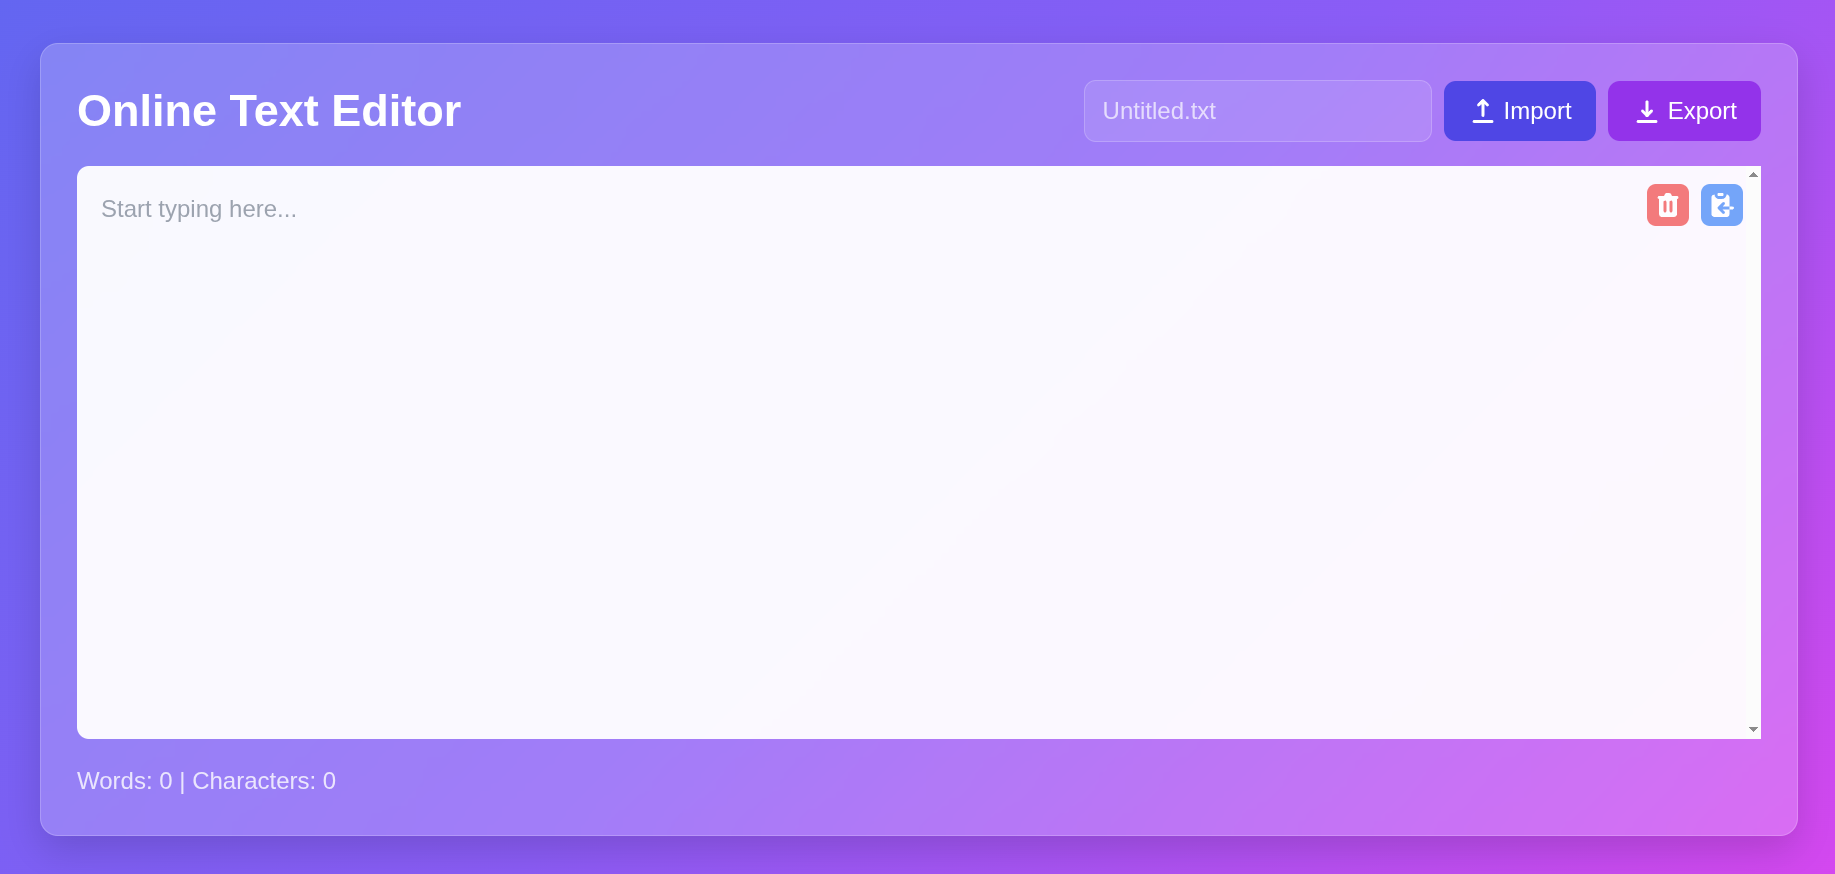
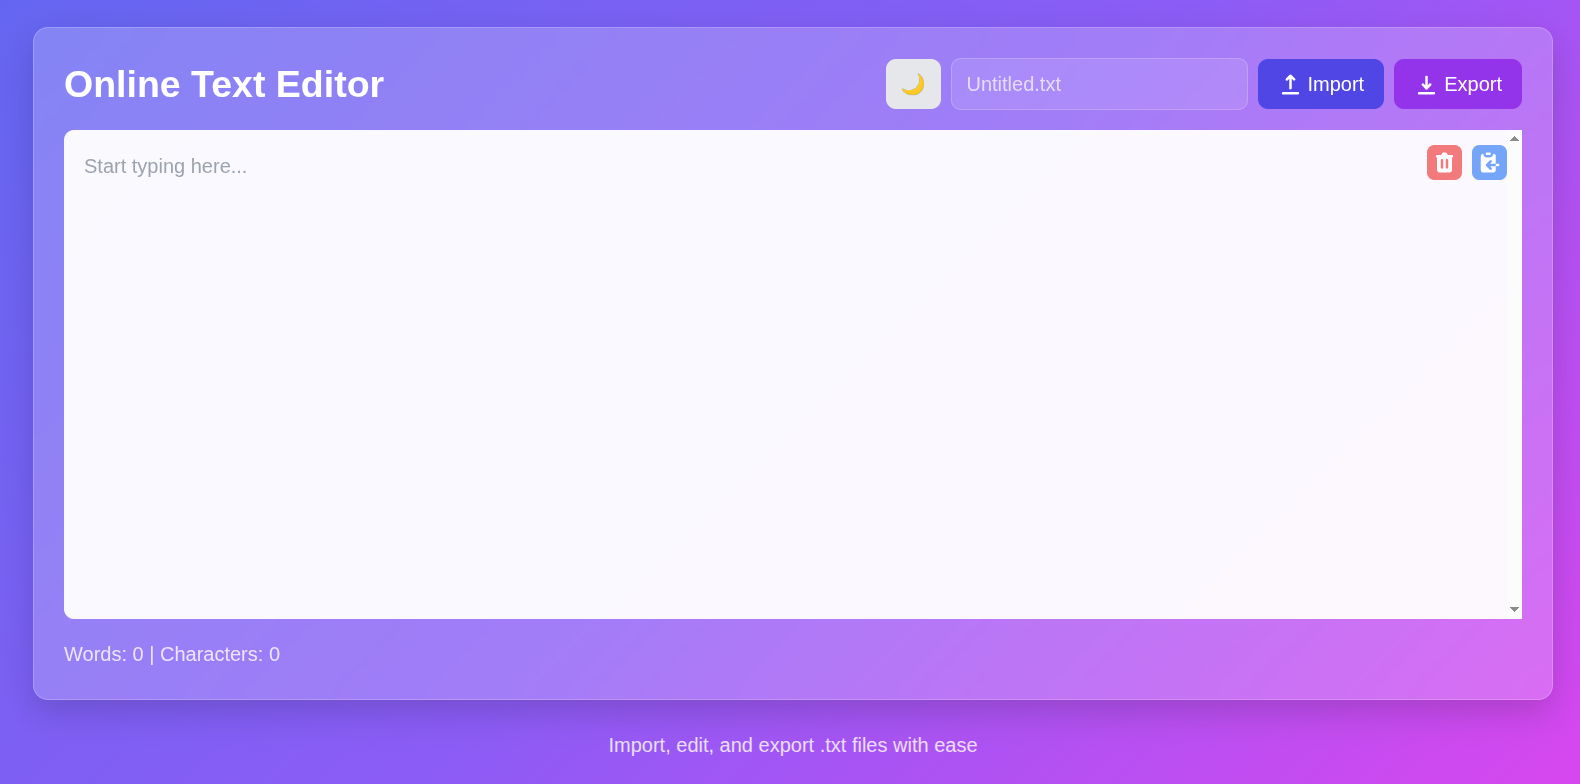
Add files via upload

Changed region(s): [[0.0, 0.0306, 0.9924, 0.8571], [0.0, 0.8878, 0.9924, 0.9796]]

diff --git a/textEditor.html b/textEditor.html
@@ -1,24 +1,50 @@
-
 <!DOCTYPE html>
 <html lang="en">
 <head>
+    <!-- Meta tags and title -->
     <meta charset="UTF-8">
     <meta name="viewport" content="width=device-width, initial-scale=1.0">
     <title>Online Text Editor</title>
+    <!-- Tailwind CSS CDN -->
     <script src="https://cdn.tailwindcss.com"></script>
     <style>
+        /* Base body styles */
         body {
             font-family: 'Inter', sans-serif;
             background: linear-gradient(135deg, #6366f1, #8b5cf6, #d946ef);
             min-height: 100vh;
         }
-        
+        /* Dark theme styles */
+        body.dark {
+            background: linear-gradient(135deg, #18181b, #312e81, #581c87);
+        }
+        body.dark .editor-container {
+            background: rgba(24, 24, 27, 0.8) !important;
+        }
+        body.dark .editor {
+            background-color: rgba(39, 39, 42, 0.95);
+            color: #f3f4f6;
+        }
+        body.dark .file-name {
+            background: rgba(39, 39, 42, 0.2);
+            color: #f3f4f6;
+            border: 1px solid rgba(255,255,255,0.1);
+        }
+        body.dark .btn {
+            color: #f3f4f6;
+        }
+        body.dark h1,
+        body.dark .text-white,
+        body.dark .text-opacity-80 {
+            color: #f3f4f6 !important;
+        }
+        /* Editor container styles */
         .editor-container {
             box-shadow: 0 10px 25px rgba(0, 0, 0, 0.15);
             backdrop-filter: blur(10px);
             border: 1px solid rgba(255, 255, 255, 0.2);
         }
-        
+        /* Editor textarea styles */
         .editor {
             min-height: 100px;
             overflow-y: scroll;
@@ -28,24 +54,21 @@
             border-radius: 0.5rem;
             transition: all 0.3s ease;
         }
-        
         .editor:focus {
             outline: none;
             box-shadow: 0 0 0 3px rgba(99, 102, 241, 0.3);
         }
-        
+        /* Button styles */
         .btn {
             transition: all 0.3s ease;
         }
-        
         .btn:hover {
             transform: translateY(-2px);
         }
-        
         .btn:active {
             transform: translateY(0);
         }
-        
+        /* Filename input styles */
         .file-name {
             background: rgba(255, 255, 255, 0.1);
             border: 1px solid rgba(255, 255, 255, 0.2);
@@ -53,15 +76,22 @@
     </style>
 </head>
 <body class="p-4 md:p-8 min-h-screen flex flex-col">
+    <!-- Main container -->
     <div class="flex-1 flex flex-col w-full mx-auto">
+        <!-- Editor card/container -->
         <div class="editor-container flex-1 flex flex-col bg-white bg-opacity-20 rounded-xl w-full p-4 md:p-6">
+            <!-- Header: title and controls -->
             <div class="flex flex-col md:flex-row justify-between items-center mb-4  gap-3">
                 <h1 class="text-2xl md:text-3xl font-bold text-white">Online Text Editor</h1>
-                
                 <div class="flex items-center gap-2">
+                    <!-- Dark theme switch button -->
+                    <button id="themeSwitch" class="btn bg-gray-200 dark:bg-gray-700 text-gray-800 dark:text-gray-200 px-3 py-2 rounded-lg" aria-label="Toggle dark mode">
+                        <span id="themeIcon">🌙</span>
+                    </button>
+                    <!-- Filename input -->
                     <input type="text" id="fileName" placeholder="Untitled.txt" 
                            class="file-name px-3 py-2 rounded-lg text-white placeholder-white placeholder-opacity-70 focus:outline-none focus:ring-2 focus:ring-purple-400">
-                    
+                    <!-- Import button and file input -->
                     <label for="importFile" class="btn bg-indigo-600 hover:bg-indigo-700 text-white px-4 py-2 rounded-lg cursor-pointer flex items-center gap-1">
                         <svg xmlns="http://www.w3.org/2000/svg" class="h-5 w-5" viewBox="0 0 20 20" fill="currentColor">
                             <path fill-rule="evenodd" d="M3 17a1 1 0 011-1h12a1 1 0 110 2H4a1 1 0 01-1-1zM6.293 6.707a1 1 0 010-1.414l3-3a1 1 0 011.414 0l3 3a1 1 0 01-1.414 1.414L11 5.414V13a1 1 0 11-2 0V5.414L7.707 6.707a1 1 0 01-1.414 0z" clip-rule="evenodd" />
@@ -69,7 +99,7 @@
                         Import
                     </label>
                     <input type="file" id="importFile" accept=".txt" class="hidden">
-                    
+                    <!-- Export button -->
                     <button id="exportBtn" class="btn bg-purple-600 hover:bg-purple-700 text-white px-4 py-2 rounded-lg flex items-center gap-1">
                         <svg xmlns="http://www.w3.org/2000/svg" class="h-5 w-5" viewBox="0 0 20 20" fill="currentColor">
                             <path fill-rule="evenodd" d="M3 17a1 1 0 011-1h12a1 1 0 110 2H4a1 1 0 01-1-1zM6.293 9.293a1 1 0 011.414 0L10 11.586l2.293-2.293a1 1 0 111.414 1.414l-3 3a1 1 0 01-1.414 0l-3-3a1 1 0 010-1.414z" clip-rule="evenodd" />
@@ -79,14 +109,17 @@
                     </button>
                 </div>
             </div>
-            
+            <!-- Editor area with clear/copy buttons -->
             <div class="relative w-full flex-1 flex flex-col">
+                <!-- Top right: clear and copy buttons -->
                 <div class="absolute top-3 right-3 flex gap-2">
+                    <!-- Clear button -->
                     <button id="clearBtn" class="bg-red-500 hover:bg-red-600 text-white p-1 rounded-md opacity-70 hover:opacity-100 transition-opacity">
                         <svg xmlns="http://www.w3.org/2000/svg" class="h-5 w-5" viewBox="0 0 20 20" fill="currentColor">
                             <path fill-rule="evenodd" d="M9 2a1 1 0 00-.894.553L7.382 4H4a1 1 0 000 2v10a2 2 0 002 2h8a2 2 0 002-2V6a1 1 0 100-2h-3.382l-.724-1.447A1 1 0 0011 2H9zM7 8a1 1 0 012 0v6a1 1 0 11-2 0V8zm5-1a1 1 0 00-1 1v6a1 1 0 102 0V8a1 1 0 00-1-1z" clip-rule="evenodd" />
                         </svg>
                     </button>
+                    <!-- Copy button -->
                     <button id="copyBtn" class="bg-blue-500 hover:bg-blue-600 text-white p-1 rounded-md opacity-70 hover:opacity-100 transition-opacity">
                         <svg xmlns="http://www.w3.org/2000/svg" class="h-5 w-5" viewBox="0 0 20 20" fill="currentColor">
                             <path d="M8 2a1 1 0 000 2h2a1 1 0 100-2H8z" />
@@ -94,22 +127,24 @@
                         </svg>
                     </button>
                 </div>
+                <!-- Main text editor -->
                 <textarea id="editor" class="editor flex-1 w-full h-auto p-4 border-0 focus:ring-0 resize-none" placeholder="Start typing here..."></textarea>
             </div>
-            
+            <!-- Word/character count and notification -->
             <div class="mt-4 flex justify-between items-center text-white text-opacity-80">
                 <div id="wordCount">Words: 0 | Characters: 0</div>
                 <div id="notification" class="hidden px-3 py-1 bg-green-500 rounded-full text-white text-sm transition-opacity duration-500"></div>
             </div>
         </div>
-        
+        <!-- Footer/help text -->
         <div class="mt-6 text-center text-white text-opacity-80">
             <p>Import, edit, and export .txt files with ease</p>
         </div>
     </div>
-
+    <!-- Main JavaScript logic -->
     <script>
         document.addEventListener('DOMContentLoaded', () => {
+            // Get DOM elements
             const editor = document.getElementById('editor');
             const importFile = document.getElementById('importFile');
             const exportBtn = document.getElementById('exportBtn');
@@ -118,6 +153,8 @@
             const clearBtn = document.getElementById('clearBtn');
             const copyBtn = document.getElementById('copyBtn');
             const notification = document.getElementById('notification');
+            const themeSwitch = document.getElementById('themeSwitch');
+            const themeIcon = document.getElementById('themeIcon');
             
             // Update word and character count
             function updateWordCount() {
@@ -127,7 +164,7 @@
                 wordCount.textContent = `Words: ${words} | Characters: ${chars}`;
             }
             
-            // Show notification
+            // Show notification message
             function showNotification(message, type = 'success') {
                 notification.textContent = message;
                 notification.classList.remove('hidden', 'bg-green-500', 'bg-red-500');
@@ -142,14 +179,12 @@
                 }, 2000);
             }
             
-            // Import file
+            // Import file logic
             importFile.addEventListener('change', (e) => {
                 const file = e.target.files[0];
                 if (!file) return;
-                
                 // Update filename input
                 fileName.value = file.name;
-                
                 const reader = new FileReader();
                 reader.onload = (event) => {
                     editor.value = event.target.result;
@@ -159,29 +194,25 @@
                 reader.readAsText(file);
             });
             
-            // Export file
+            // Export file logic
             exportBtn.addEventListener('click', () => {
                 const text = editor.value;
                 const name = fileName.value || 'Untitled.txt';
                 const fileNameWithExtension = name.endsWith('.txt') ? name : `${name}.txt`;
-                
                 const blob = new Blob([text], { type: 'text/plain' });
                 const url = URL.createObjectURL(blob);
-                
                 const a = document.createElement('a');
                 a.href = url;
                 a.download = fileNameWithExtension;
                 document.body.appendChild(a);
                 a.click();
-                
                 // Clean up
                 document.body.removeChild(a);
                 URL.revokeObjectURL(url);
-                
                 showNotification('File exported successfully');
             });
             
-            // Clear editor
+            // Clear editor logic
             clearBtn.addEventListener('click', () => {
                 if (editor.value && confirm('Are you sure you want to clear the editor?')) {
                     editor.value = '';
@@ -190,16 +221,35 @@
                 }
             });
             
-            // Copy to clipboard
+            // Copy to clipboard logic
             copyBtn.addEventListener('click', () => {
                 editor.select();
                 document.execCommand('copy');
                 showNotification('Text copied to clipboard');
             });
             
+            // Theme toggle logic
+            function setTheme(dark) {
+                if (dark) {
+                    document.body.classList.add('dark');
+                    themeIcon.textContent = '☀';
+                    localStorage.setItem('theme', 'dark');
+                } else {
+                    document.body.classList.remove('dark');
+                    themeIcon.textContent = '🌙';
+                    localStorage.setItem('theme', 'light');
+                }
+            }
+            // On load, set theme from localStorage
+            const savedTheme = localStorage.getItem('theme');
+            setTheme(savedTheme === 'dark');
+            // Theme switch button event
+            themeSwitch.addEventListener('click', () => {
+                const isDark = document.body.classList.contains('dark');
+                setTheme(!isDark);
+            });
             // Update word count on input
             editor.addEventListener('input', updateWordCount);
-            
             // Initial word count
             updateWordCount();
         });
